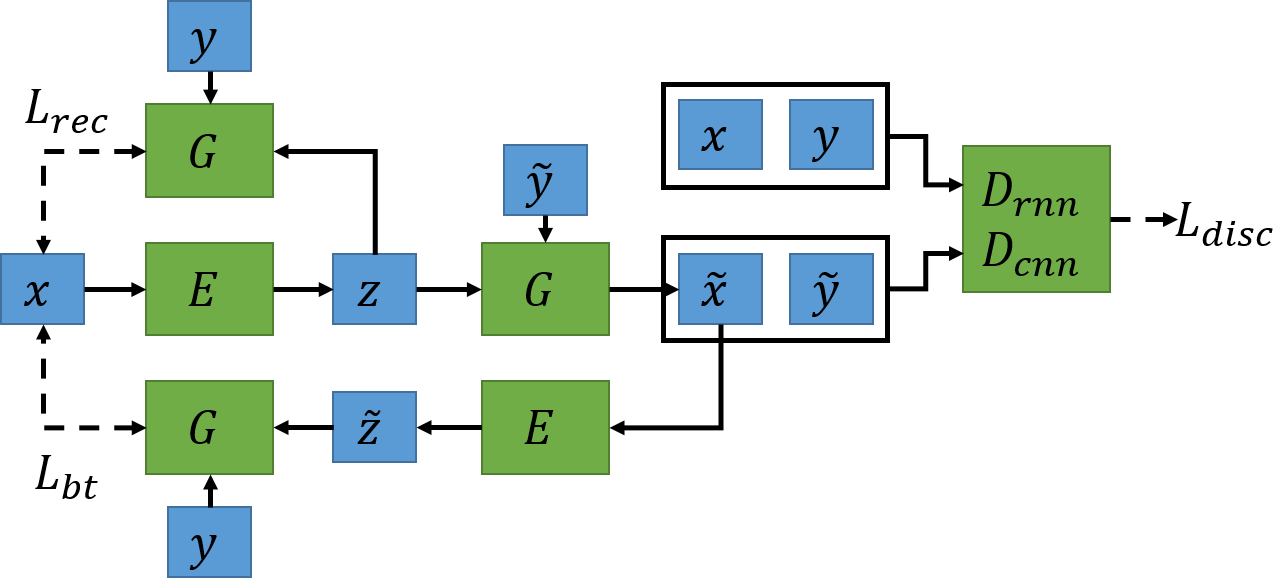
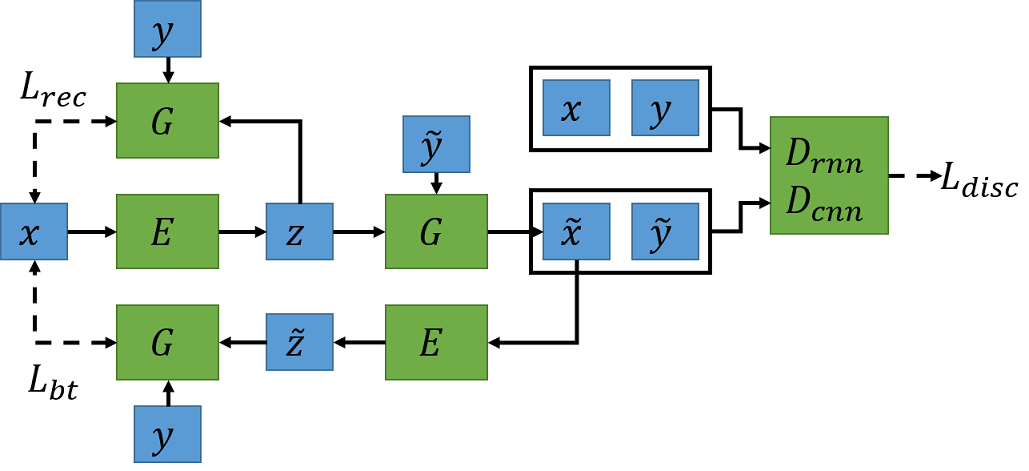
update readme and figures

diff --git a/README.md b/README.md
@@ -6,7 +6,7 @@ This repo is for the following paper:
 
 ## Model Overview
 
-![Model framework](/figures/model.png =1029x471)
+![Model framework](/figures/model.png)
 
 ## Samples
 
